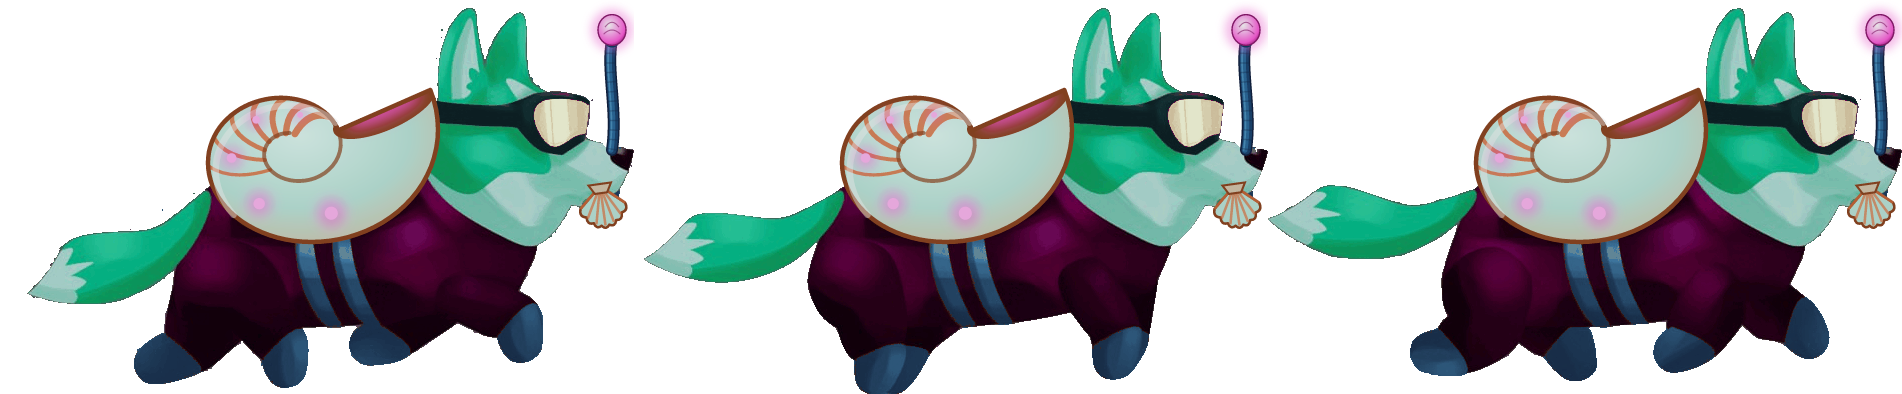
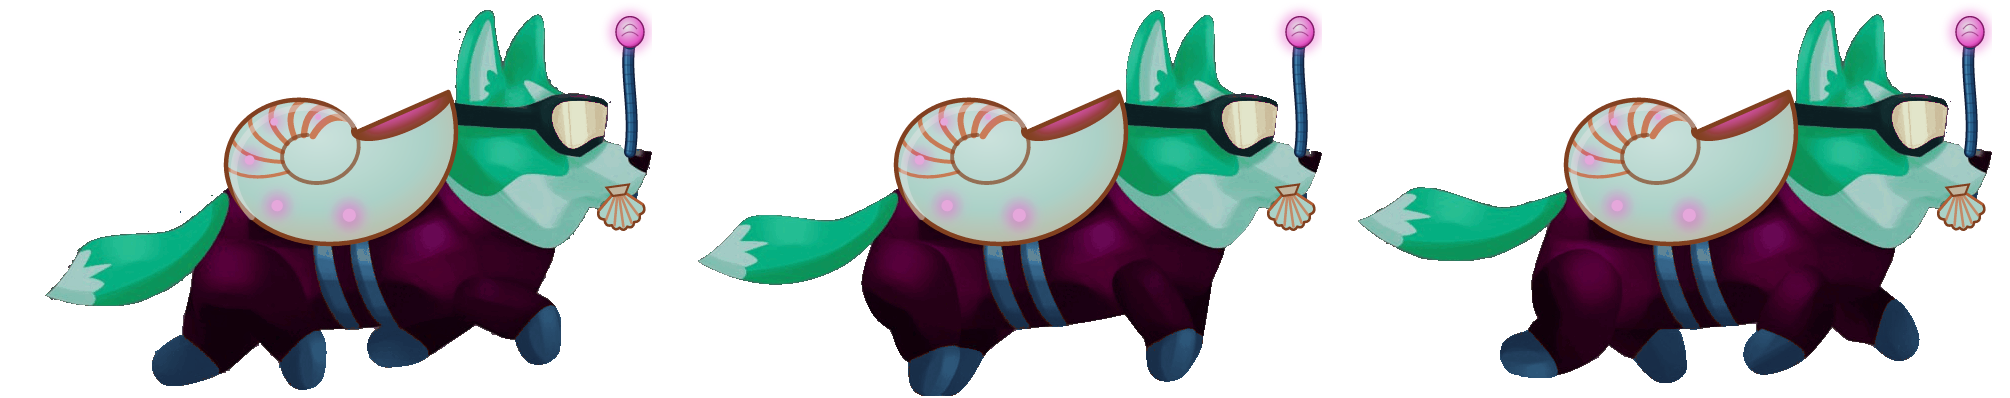
Captain Chum sprite sheet
Rebuilt in the new corgi sheet layout like the others, and placeholder sizes updated for the rebuilt sheets.

diff --git a/src/game/freediver/data/PlaceholderArt.ts b/src/game/freediver/data/PlaceholderArt.ts
@@ -29,14 +29,14 @@ export const PlaceholderArt: { path: string, bytes: number, origin: string }[] =
   { path: 'realms/hell/devil-corgi-fish.png', bytes: 4217, origin: 'Drawn from simple shapes' },
   { path: 'realms/hell/fireball.png', bytes: 2117, origin: 'Drawn from simple shapes' },
   { path: 'realms/hell/hell-corgi-dialog.png', bytes: 84741, origin: 'Tinted from dialog/link.png' },
-  { path: 'realms/hell/hell-corgi.png', bytes: 180105, origin: 'Tinted from kingdom/corgi-citizen.png' },
+  { path: 'realms/hell/hell-corgi.png', bytes: 180809, origin: 'Tinted from kingdom/corgi-citizen.png' },
   { path: 'realms/hell/hell-fish.png', bytes: 22602, origin: 'Tinted from sprites/fish/evil.png' },
   { path: 'realms/hell/hell-rock.png', bytes: 5155, origin: 'Drawn from simple shapes' },
   { path: 'realms/hell/steam-vent.png', bytes: 812, origin: 'Drawn from simple shapes' },
   { path: 'realms/hell/steam.png', bytes: 15190, origin: 'Drawn from simple shapes' },
   { path: 'realms/trigger-fish-lair/bait.png', bytes: 714, origin: 'Drawn from simple shapes' },
   { path: 'realms/trigger-fish-lair/captain-chum-dialog.png', bytes: 87080, origin: 'Tinted from dialog/link.png' },
-  { path: 'realms/trigger-fish-lair/captain-chum.png', bytes: 183158, origin: 'Tinted from kingdom/corgi-citizen.png' },
+  { path: 'realms/trigger-fish-lair/captain-chum.png', bytes: 185111, origin: 'Tinted from kingdom/corgi-citizen.png' },
   { path: 'realms/trigger-fish-lair/mini-trigger-fish.png', bytes: 21927, origin: 'Tinted from sprites/fish/evil.png' },
   { path: 'realms/trigger-fish-lair/rock.png', bytes: 5059, origin: 'Drawn from simple shapes' },
   { path: 'kingdom/kingdom-back.png', bytes: 14620, origin: 'Rendered from the old SVG' },
